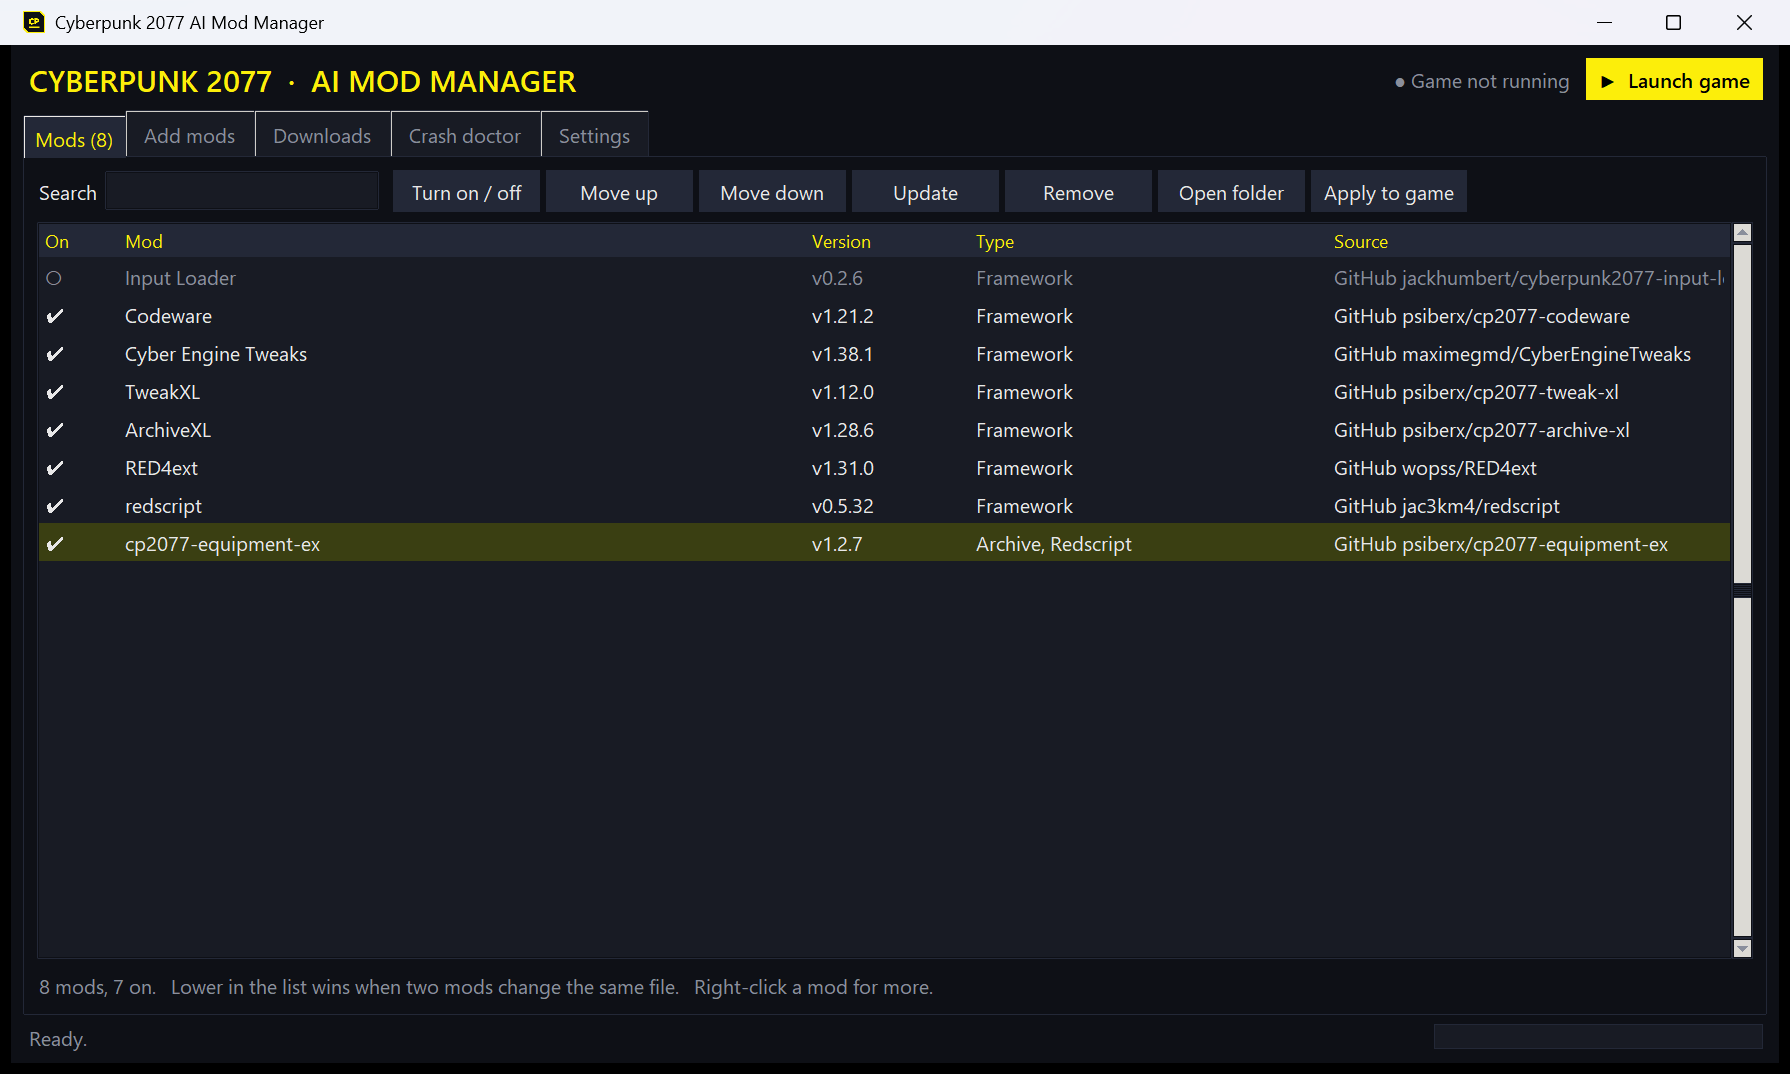
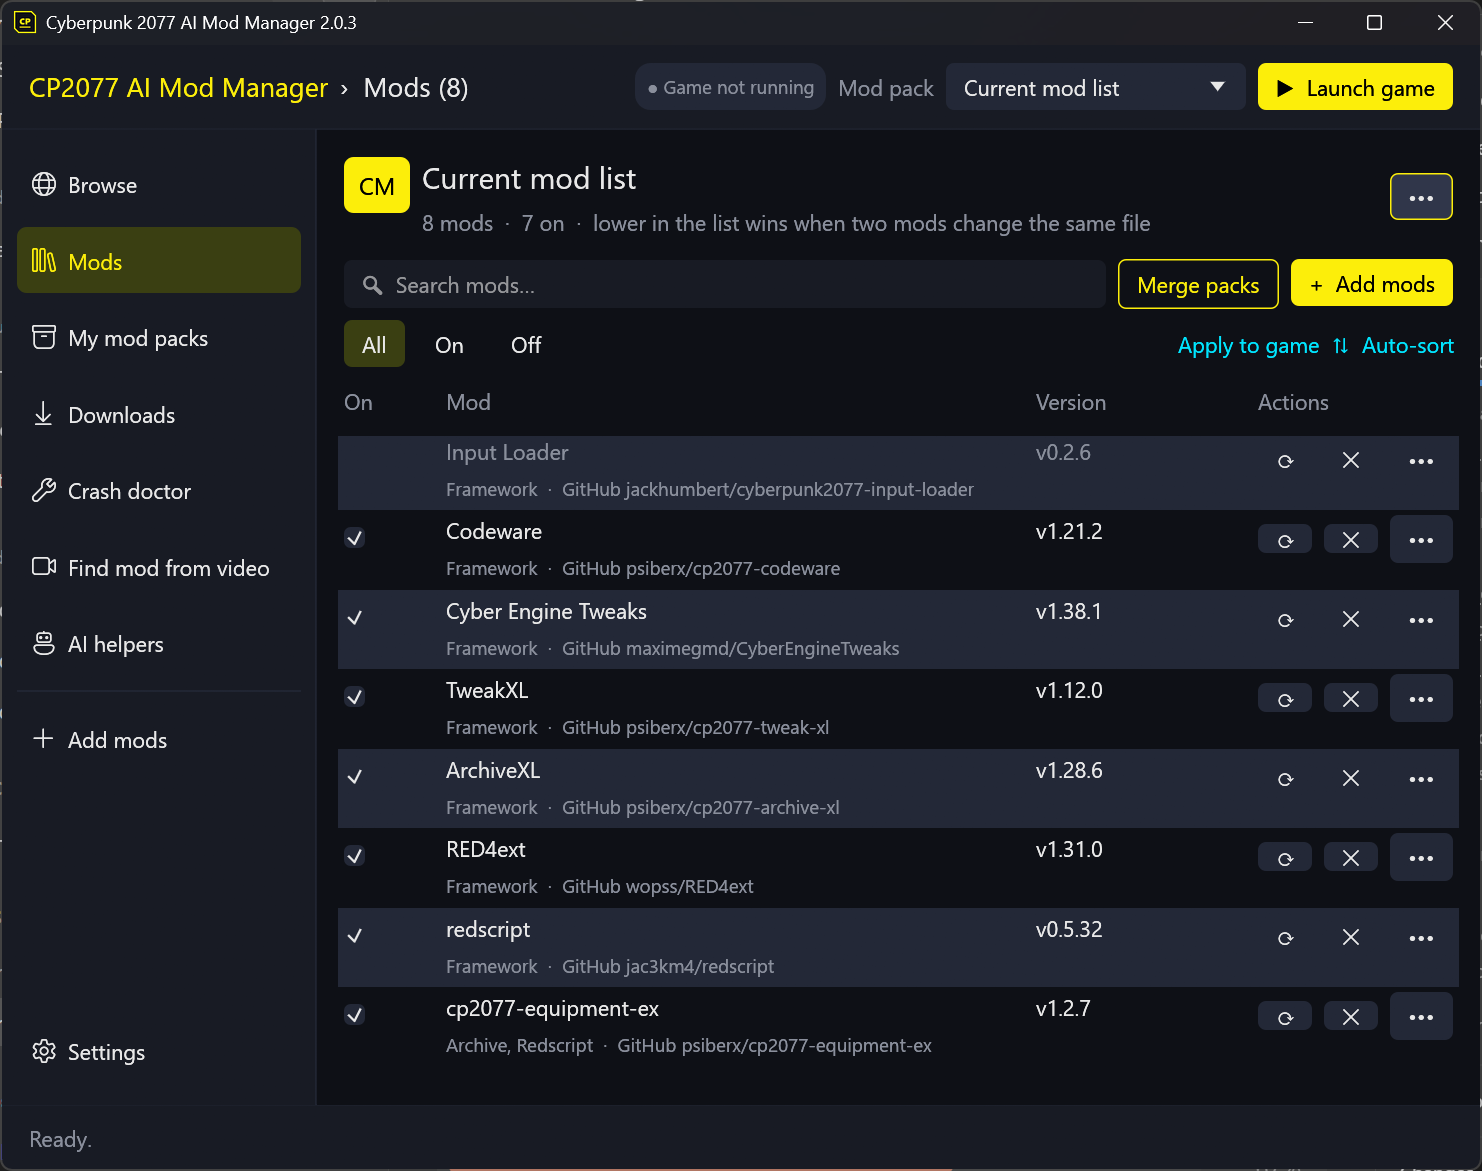
Make the browser test independent of the PC's default browser; new README screenshots

diff --git a/rust-app/downloads/src/nexus_browser.rs b/rust-app/downloads/src/nexus_browser.rs
@@ -120,7 +120,12 @@ fn default_browser() -> Option<&'static str> {
 /// Path of the user's default browser when it is Brave, Edge or Chrome and installed, else the first of those
 /// installed (in that order), or None when none is.
 pub fn find_browser() -> Option<PathBuf> {
-    let first = default_browser().map(|b| format!(r"\{b}.exe"));
+    find_browser_from(default_browser())
+}
+
+/// Like `find_browser`, with `default` ("brave", "msedge" or "chrome") in place of the PC's default browser.
+fn find_browser_from(default: Option<&str>) -> Option<PathBuf> {
+    let first = default.map(|b| format!(r"\{b}.exe"));
     let preferred = BROWSERS.iter().filter(|(_, tail)| first.as_ref().is_some_and(|f| tail.ends_with(f.as_str())));
     preferred.chain(BROWSERS.iter()).find_map(|(var, tail)| {
         let base = PathBuf::from(std::env::var_os(var)?);
@@ -481,12 +486,17 @@ pub struct Browser {
     port: u16,
 }
 
+/// Each browser gets its own profile folder: one browser cannot always read the login another one saved.
+/// Edge keeps the base folder, as before.
+fn profile_for(exe: Option<&Path>, base: &Path) -> PathBuf {
+    let stem = exe.and_then(|e| e.file_stem()).map(|s| s.to_string_lossy().to_lowercase()).unwrap_or_default();
+    if stem.is_empty() || stem == "msedge" { base.to_path_buf() } else { base.join(stem) }
+}
+
 impl Browser {
     pub fn new(profile: &Path, visible: bool) -> Browser {
         let exe = find_browser();
-        let stem = exe.as_ref().and_then(|e| e.file_stem()).map(|s| s.to_string_lossy().to_lowercase()).unwrap_or_default();
-        // each browser gets its own profile folder: one browser cannot always read the login another one saved
-        let profile = if stem.is_empty() || stem == "msedge" { profile.to_path_buf() } else { profile.join(stem) };
+        let profile = profile_for(exe.as_deref(), profile);
         Browser { exe, visible, profile, proc: None, port: 0 }
     }
 

diff --git a/rust-app/downloads/src/nexus_browser/tests.rs b/rust-app/downloads/src/nexus_browser/tests.rs
@@ -334,11 +334,11 @@ fn test_brave_first_with_its_own_profile() {
         std::env::set_var("ProgramFiles(x86)", "");
         std::env::set_var("LocalAppData", "");
     }
-    let brave = find_browser();
-    let brave_profile = Browser::new(&tmp.join("p"), false).profile;
+    // with no default browser among the three (the PC's own default would decide otherwise)
+    let brave = find_browser_from(None);
+    let default_edge = find_browser_from(Some("msedge"));
     std::fs::remove_file(tmp.join(BRAVE)).unwrap();
-    let edge = find_browser();
-    let edge_profile = Browser::new(&tmp.join("p"), false).profile;
+    let edge = find_browser_from(Some("brave"));
     for (k, v) in vars.iter().zip(old) {
         // SAFETY: as above
         unsafe {
@@ -349,9 +349,11 @@ fn test_brave_first_with_its_own_profile() {
         }
     }
     assert_eq!(brave, Some(tmp.join(BRAVE)));
-    assert_eq!(brave_profile, tmp.join("p").join("brave"));
-    assert!(edge.unwrap().to_string_lossy().ends_with("msedge.exe"));
-    assert_eq!(edge_profile, tmp.join("p")); // Edge keeps the old folder
+    assert!(default_edge.unwrap().to_string_lossy().ends_with("msedge.exe")); // the default browser comes first
+    let edge = edge.unwrap(); // a default browser that is not installed falls back to the order
+    assert!(edge.to_string_lossy().ends_with("msedge.exe"));
+    assert_eq!(profile_for(brave.as_deref(), &tmp.join("p")), tmp.join("p").join("brave"));
+    assert_eq!(profile_for(Some(&edge), &tmp.join("p")), tmp.join("p")); // Edge keeps the old folder
 }
 
 // test_browser.py CloseTab.test_plain_text_close_answer_is_not_an_error

diff --git a/README.md b/README.md
@@ -21,6 +21,8 @@ the Advanced Crash Reporter mod, so a crash report names the mod that caused it.
 
 ![Mods tab](docs/screenshot.png)
 
+![Browse tab](docs/browse.png)
+
 ## Get started in 3 steps
 
 1. **Download and open it.** Click the yellow button above, then double-click `CP2077.AI.Mod.Manager.exe`. You can keep it anywhere, for example on your Desktop.
